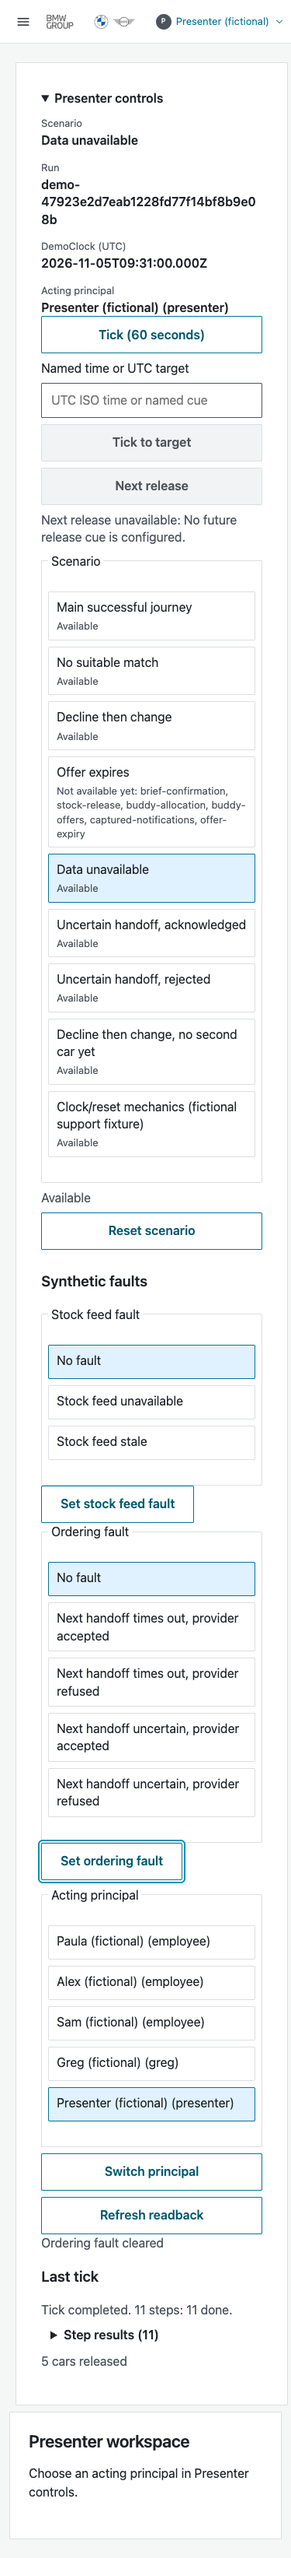
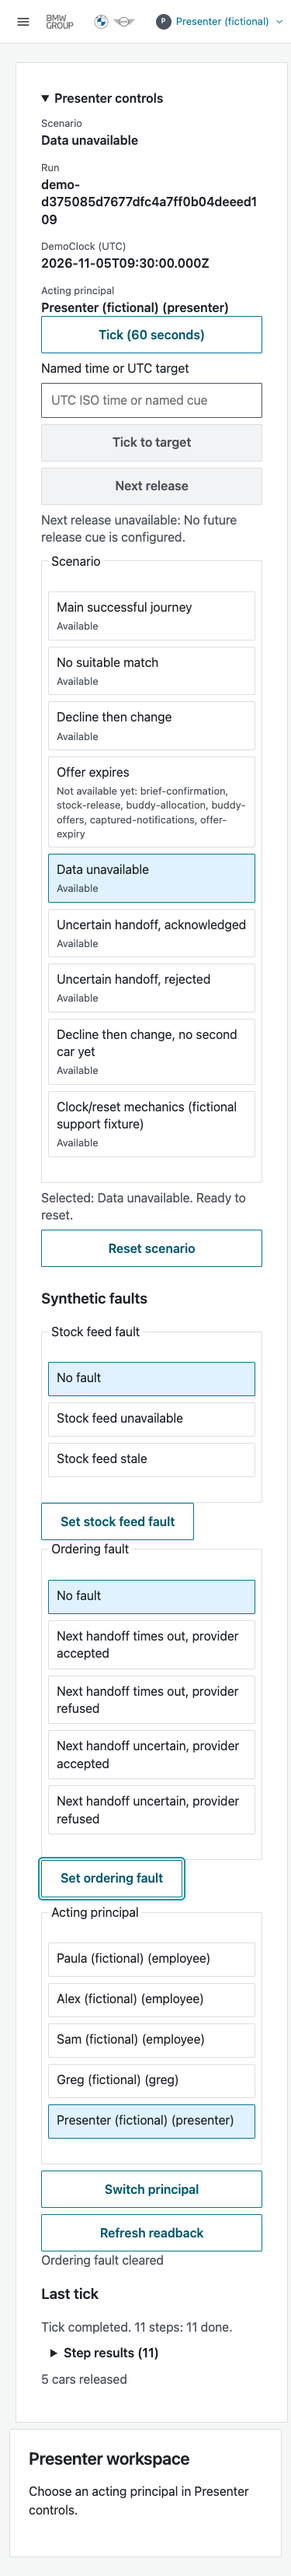
FUCQ-172: picker line names the selection; walkthrough retries the refused release after clearing the fault
Merged gcsp-poc (FUCQ-173 decline-then-change-waiting now listed). Walkthrough waits on readback
instead of a fixed delay, uses ports 8950-8959, and reruns at 1280 and 375 pass with no reload.

Changed region(s): [[0.1467, 0.031, 0.88, 0.9309], [0.3227, 0.031, 0.3813, 0.0621], [0.2053, 0.962, 0.2347, 0.993]]

diff --git a/server/test/gcsp-presenter-controls-render.test.js b/server/test/gcsp-presenter-controls-render.test.js
@@ -186,9 +186,10 @@ for (const [name, mutate] of Object.entries(invalidReleaseResults)) test(`releas
   await settle(); assert.match(f.host.textContent, /Release unavailable/); assert.doesNotMatch(f.host.textContent, /\d+ cars released/); f.control.destroy();
 });
 test('reset current/chosen availability is explained and explicit confirmation captures canonical versions', async () => {
-  const f = setup(); await settle(); const unavailable = choice(f, 'Scenario', 'business'); assert.equal(unavailable.disabled, false); unavailable.click(); assert.match(f.host.textContent, /actual-release-service/);
+  const f = setup(); await settle(); const unavailable = choice(f, 'Scenario', 'business'); assert.equal(unavailable.disabled, false); unavailable.click(); assert.match(f.host.textContent, /Selected: Business journey\. Not available yet: actual-release-service/);
   assert.equal(f.click('Reset scenario').disabled, true); assert.equal(f.calls.length, 0);
-  choice(f, 'Scenario', 'mechanics').click(); f.click('Reset scenario'); assert.equal(f.calls.length, 0);
+  choice(f, 'Scenario', 'mechanics').click(); assert.match(f.host.textContent, /Selected: Clock mechanics\. Ready to reset\./);
+  f.click('Reset scenario'); assert.equal(f.calls.length, 0);
   f.click('Cancel reset'); assert.equal(f.calls.length, 0); f.click('Reset scenario'); f.click('Confirm reset'); await settle();
   assert.deepEqual(f.calls[0], { commandId: 'command-1', expectedRunId: 'run-a', expectedRunVersion: 1,
     scenarioId: 'mechanics', scenarioVersion: 'v1', fixtureVersion: 'f1', policyVersion: 'policy-test' });

diff --git a/blocks/gcsp/presenter-controls/controls.js b/blocks/gcsp/presenter-controls/controls.js
@@ -189,7 +189,9 @@ export function mountPresenterControls(host, { adapter = createPresenterHttpAdap
     nextReason.textContent = state.controls?.nextRelease?.status === 'available'
       ? `Release cue: ${state.controls.nextRelease.at}` : `Next release unavailable: ${state.controls?.nextRelease?.reason || 'No future cue'}`;
     const chosen = catalogue?.scenarios?.find((row) => row.scenarioId === scenario.value);
-    availability.textContent = chosen?.availability?.available ? 'Available' : `Not available yet: ${chosen?.availability?.missingCapabilities?.join(', ') || reason(catalogue) || 'Scenario catalogue unavailable'}`;
+    // Names the choice rather than repeating its option sub-line.
+    availability.textContent = chosen?.availability?.available ? `Selected: ${chosen.name}. Ready to reset.`
+      : `${chosen ? `Selected: ${chosen.name}. ` : ''}Not available yet: ${chosen?.availability?.missingCapabilities?.join(', ') || reason(catalogue) || 'Scenario catalogue unavailable'}`;
     reset.disabled ||= !chosen?.availability?.available; confirm.disabled ||= !chosen?.availability?.available;
     switchButton.disabled ||= !principal.value;
     confirmText.textContent = `Reset into ${chosen?.name || 'selected scenario'}? This starts a new run.`;

diff --git a/docs/gcsp/manual-acceptance-scenarios.md b/docs/gcsp/manual-acceptance-scenarios.md
@@ -238,7 +238,7 @@ Observations from a hand trial go in a new row below, in the same format.
 
 - **Start:** `data-unavailable-inputs-v1`, variants `unavailable` (the fixture's) and `stale`. After the reset, the start loader (`server/gcsp/scenarios/data-unavailable.js`) confirms Paula's brief (estate preference, five seats) through the actual BriefService and sets the synthetic stock fault for the new run to `unavailable`. It does not tick. The fault lives in the synthetic adapter (`server/gcsp/stock/synthetic-fault.js`), alters only synthetic pulls and is cleared by the next reset. No operational provider is touched.
 - **Reset:** launch the demo (`node scripts/gcsp-demo.mjs`), open `gcsp-presenter.html`, open **Presenter controls**, choose **Data unavailable** and press **Reset scenario**, then confirm. Read back the new run and DemoClock time (09:00 UTC, release cue 09:30).
-- **Click-through:** press **Next release**: the tick is refused at the stock pull. Switch to Paula and open **Buddy activity**. Switch to Greg and read **Stock**. For the `stale` variant, in **Presenter controls** under **Synthetic faults** choose **Stock feed stale** and press **Set stock feed fault**, then press **Tick** (one step). Choose **No fault**, press **Set stock feed fault** again and press **Tick**; Paula's activity then shows her offer. Since FUCQ-172 the strip reads and sets the fault through `GET`/`POST /api/gcsp/presenter/scenarios/faults` (`{ commandId, adapter: "stock", mode }`), so no raw request is needed.
+- **Click-through:** press **Next release**: the tick is refused at the stock pull. Switch to Paula and open **Buddy activity**. Switch to Greg and read **Stock**. For the `stale` variant, in **Presenter controls** under **Synthetic faults** choose **Stock feed stale** and press **Set stock feed fault**, then press **Retry original action**. Choose **No fault**, press **Set stock feed fault** again and press **Retry original action**; Paula's activity then shows her offer. While the refused release awaits its retry, **Tick** stays disabled and the fault pickers stay usable. Since FUCQ-172 the strip reads and sets the fault through `GET`/`POST /api/gcsp/presenter/scenarios/faults` (`{ commandId, adapter: "stock", mode }`), so no raw request is needed.
 - **Expected visible/state result:** the failed pull releases no car and writes no release receipt, allocation pass, offer or hold, and Paula's brief (her priority) is unchanged. Paula's activity reads *Couldn't check for new cars. Stock source unavailable.* with no last check, which differs from the no-suitable-match reading *Still searching. No match yet.* with *Last check ...: 5 cars checked, 0 suitable.* Greg's **Stock** section reads *Stock source unavailable. Figures may be out of date.* and the table *Couldn't check for new stock*, not zero; for `stale`, *Stock data too old to use. Figures may be out of date.* After clearing, the next tick releases the same tranche and allocation offers Paula a car.
 - **Provisional assumptions:** stock age uses `supply.stockSource.maxAgeMinutes` (assumed 60 minutes) through PolicyService; the stale variant reports the list as last observed one minute beyond it. Fault modes are explicit synthetic adapter inputs.
 - **Automated replay:** `server/test/gcsp-scenario-unavailable.test.js` drives this route through the actual presenter, employee and Greg HTTP routes, twice across two resets: the refused `stock-release` handler with no stock, release, allocation, offer, hold or brief change; Paula's `sourceStatus: unavailable` with no last check; Greg's `stock.source` unavailable (then `reason: stale`) rather than an empty pool; recovery with an offer once cleared; and a later reset into another scenario with no fault set.
@@ -311,6 +311,7 @@ cookie hides the strip entirely even when the acting person is an employee or Gr
    Since FUCQ-172 the same picker lists the whole versioned catalogue: the main journey, *Decline then change*
    and its waiting variant, *No suitable match*, *Data unavailable* and both *Uncertain handoff* entries are
    available; *Offer expires* reads "Not available yet" with its missing capabilities and cannot be reset into.
+   The line under the picker names the selected entry: "Selected: <name>. Ready to reset." or its missing capabilities.
    Choose another entry, **Reset scenario**, **Confirm reset**: a journey reset runs its start loader through the
    actual services (a few seconds), then the page reloads and the bar reads back the new scenario, run, DemoClock
    time, acting principal and the start tick's ordered step results. If the start loader stops, the strip stays
